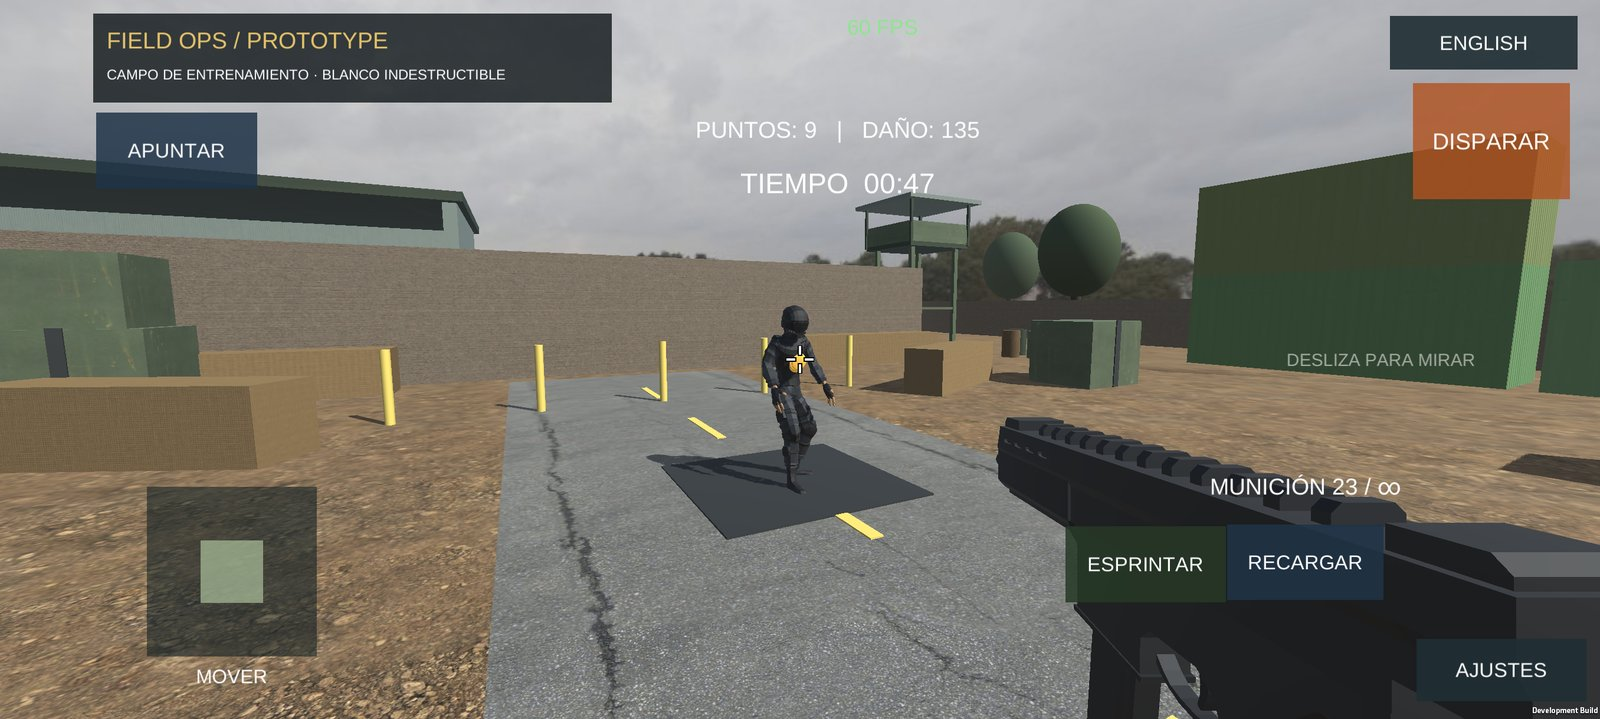
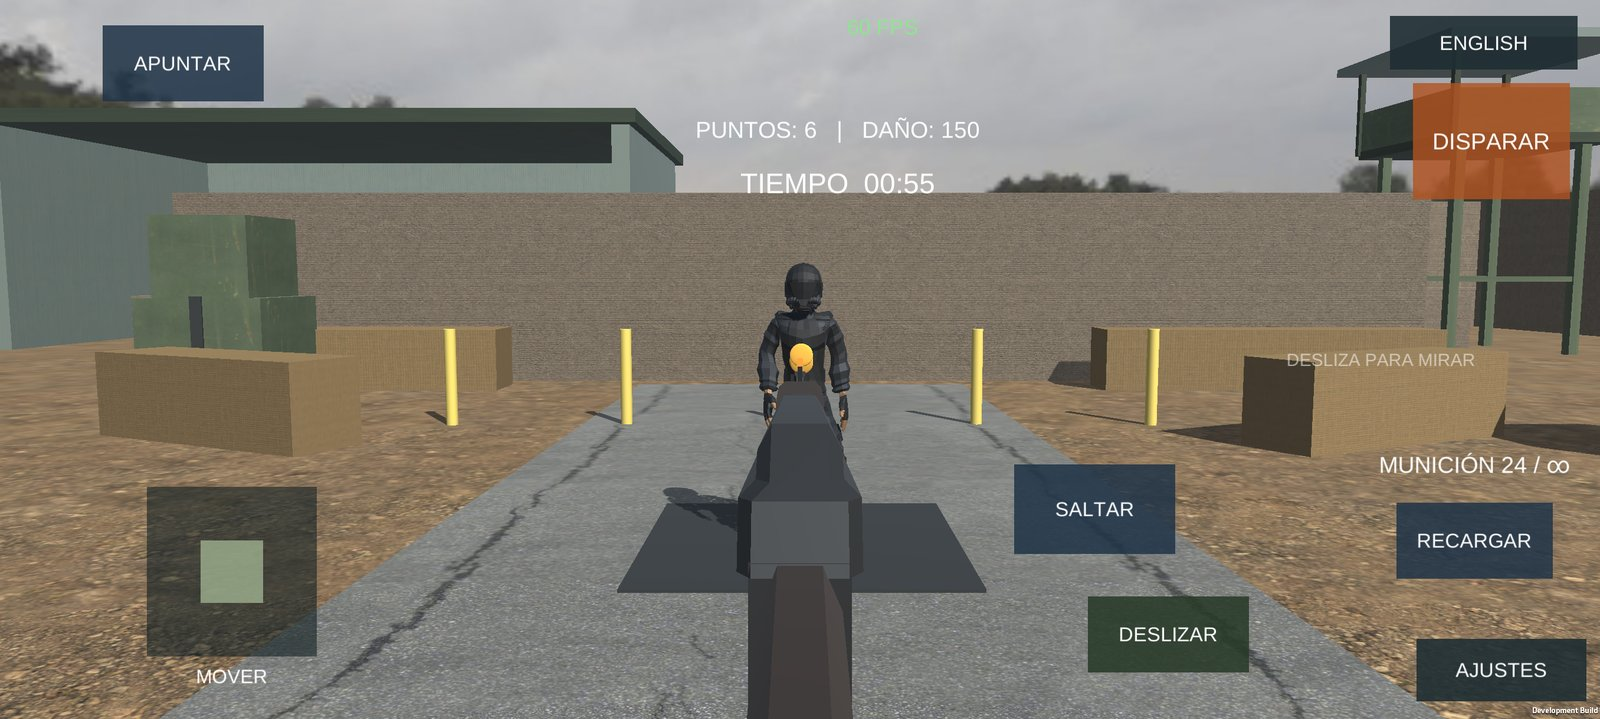
docs: refresh the README screenshot and layout table and add a current-state summary to VERIFICATION

diff --git a/VERIFICATION.md b/VERIFICATION.md
@@ -1,8 +1,43 @@
-# Timed-training verification
+# Verification
 
-The local source now provides configurable **1–300-second** training rounds, a visible countdown, one point per successful target hit, frozen final results, replay and duration changes. The new flow was built into a fresh APK, installed on a physical Motorola edge 60 fusion (Android 16) and reported working by the user (see the device section below). The original free-practice evidence is historical.
+This file is the evidence log of the project. It starts with the current state and a map of the sections, then keeps **one section per feature** in the order the features were built, each with the strict RED -> GREEN evidence, what was observed by the assistant (adb, logs, captures), what the user reported after testing on the phone, the bugs found and the known limits. Evidence is never inflated: a result is labelled as proven by tests, observed, or user-reported.
 
-## Current source checks
+## Current state
+
+| Item | Value |
+|---|---|
+| Unity | **6000.0.70f1** (no packages, editor or pipeline upgrades; only the built-in `animation` module was enabled, with approval) |
+| EditMode tests | **298 passed, 0 failed** |
+| PlayMode tests | **101 passed, 0 failed** |
+| Test method | The scene is regenerated first (`Field Ops > Create or Rebuild Training Range`), then both suites run; PlayMode needs a graphics device, EditMode runs with `-nographics` |
+| Device | Motorola edge 60 fusion, Android 16, development build installed with `adb install -r` |
[1 lines of base64/hex data omitted]
+| Performance on the phone | about 60 FPS in short sessions (see the soldier and movement sections); no thermal, battery or long-session measurement is claimed |
+
+### Map of the sections
+
+| Feature | Section |
+|---|---|
+| Timed rounds (baseline suite) | the first three sections below (historical numbers) |
+| Ammunition and reload | Ammunition and manual reload |
+| Aim down sights and settings | Aim down sights and settings |
+| Sound | Sound effects, Per-weapon audio |
+| Configurable HUD | Configurable HUD layout |
+| Five weapons | Five selectable weapons with imported models |
+| Map, sky, FPS counter | Military training-base map, sky and FPS counter |
+| Soldier target and hit zones | Soldier target, Shot and hit-zone fixes |
+| Jump, slide, hop chain, title tab, movable language and FPS | Jump, slide, sprint mode, title tab and movable language/FPS |
+| Sprint sensitivity, sprint pose, forward-only sprint | Sprint sensitivity, sprint weapon pose and forward-only sprint |
+| Iron sights, sniper scope, bolt and pump cycle | Iron sights, sniper scope view and hand-worked action |
+
+### Known limits (summary)
+
+One phone and short sessions; the movement, pose and sight values are tuned by feel and are not matched to any commercial game; no hands are modelled; the two weapon-cycle sounds were not audibly checked by the assistant; the user reported that the phone checks passed.
+
+## Timed-round baseline: source checks (historical, 2026-10-11)
+
+These first sections describe the original timed-round iteration and its numbers (39 EditMode and 9 PlayMode tests at that time). The current totals are in the table above.
+
 
 | Evidence | Result | Scope |
 |---|---|---|
@@ -24,7 +59,7 @@ All launches used Unity **6000.0.70f1**. No packages, editor version or renderin
 - Configuration/results block touch movement/look/fire/sprint and desktop mouse capture. Finger roles are cleared; a held pointer cannot leak a shot into a new round. Focus loss and app pause are separate suspension causes: both must clear before active time resumes, and background time is excluded.
 - `PrototypeBuilder` saves real menu/input/button objects and references in the editable scene. Every serialized UGUI graphic retains `UiDefault.mat`; the existing UI/Default inclusion/prebuild validator remains in effect. Runtime hides the centered reticle in menus.
 
-## What the PlayMode tests establish
+## Timed-round baseline: what its PlayMode tests establish
 
 1. The saved scene opens at configuration with default 60. Numeric-field/start/replay/configure wiring exists, and the three rendered UI states have readable layout.
 2. Queued InputSystem touchscreen events focus the real InputField and click the real start button. Text is then set **programmatically** for invalid/300-second cases; this does not prove physical keyboard typing.
@@ -41,6 +76,7 @@ Intermediate checks found two harness assumptions, not bypassed gameplay failure
 Use Unity 6000.0.70f1 and substitute PROJECT/RESULTS/LOG with local paths:
 
 ```text
+Unity.exe -batchmode -nographics -quit -projectPath PROJECT -executeMethod FieldOps.Editor.PrototypeBuilder.Generate -logFile LOG   (regenerate the scene first; EditMode tests open the saved scene)
 Unity.exe -batchmode -nographics -projectPath PROJECT -runTests -testPlatform EditMode -testResults RESULTS -logFile LOG
 Unity.exe -batchmode -projectPath PROJECT -runTests -testPlatform PlayMode -testResults RESULTS -logFile LOG
 Unity.exe -batchmode -nographics -quit -projectPath PROJECT -executeMethod FieldOps.Editor.UiBuildValidation.Validate -logFile LOG
@@ -49,7 +85,7 @@ Unity.exe -batchmode -nographics -quit -projectPath PROJECT -buildTarget Android
 
 Do not append `-quit` to test-runner commands. The runner owns completion. A hidden batch Game view needs test-only input/focus settings; physical-device behavior must be checked separately. Scene regeneration overwrites the generated scene/materials: save custom variants under another name before rebuilding it.
 
-## Physical-device acceptance for the new APK (2026-10-11)
+## Timed-round baseline: physical-device acceptance (2026-10-11)
 
[1 lines of base64/hex data omitted]
 

diff --git a/README.md b/README.md
@@ -2,10 +2,10 @@
 
 **[English](#english) · [Español](#español)**
 
-![Gameplay on the phone: soldier target with amber impact marks, score, damage, timer, ammo and FPS counter, Spanish interface / Juego en el teléfono: blanco soldado con marcas de impacto ámbar, puntaje, daño, tiempo, munición y contador de FPS, interfaz en español](docs/images/android-gameplay.jpg)
+![Aiming through the assault rifle iron sights on the phone: soldier target with amber impact marks, score, damage, timer, ammo and FPS counter, Spanish interface / Apuntando por las miras de hierro del fusil de asalto en el teléfono: blanco soldado con marcas de impacto ámbar, puntaje, daño, tiempo, munición y contador de FPS, interfaz en español](docs/images/android-gameplay.jpg)
 
-*EN: screenshot taken on the Motorola edge 60 fusion (development build, hence the "Development Build" label) during a round with the sub-machine gun: 9 points, 135 damage, an amber mark on the soldier and 60 FPS.*
-*ES: captura tomada en el Motorola edge 60 fusion (compilación de desarrollo, de ahí la etiqueta "Development Build") durante una partida con el subfusil: 9 puntos, 135 de daño, una marca ámbar en el soldado y 60 FPS.*
+*EN: screenshot taken on the Motorola edge 60 fusion (development build, hence the "Development Build" label) while aiming through the assault rifle iron sights: 6 points, 150 damage, amber marks on the soldier, 60 FPS and the player's own button layout (AIM moved to the top-left).*
+*ES: captura tomada en el Motorola edge 60 fusion (compilación de desarrollo, de ahí la etiqueta "Development Build") apuntando por las miras de hierro del fusil de asalto: 6 puntos, 150 de daño, marcas ámbar en el soldado, 60 FPS y la disposición de botones propia del jugador (APUNTAR movido arriba a la izquierda).*
 
 ---
 
@@ -97,12 +97,14 @@ On the phone, a 4-minute development-build session with the soldier averaged 59.
 | Path | Purpose |
 |---|---|
 | `Assets/FieldOps/Scenes` | Editable training scene |
-| `Assets/FieldOps/Scripts` | Movement, input, weapons, ammunition, aiming, sound, target, round rules, settings and HUD |
+| `Assets/FieldOps/Scripts` | Movement (jump, slide, sprint), input, weapons, ammunition, aiming, scope view, weapon action cycle, sound, target, round rules, settings and HUD |
 | `Assets/FieldOps/Weapons` | Generated weapon definitions (stats and model per weapon) |
 | `Assets/FieldOps/ThirdParty` | Third-party assets with their notices (see [CREDITS.md](CREDITS.md)) |
 | `Assets/FieldOps/Audio` | Processed weapon sound effects with their notice (see [CREDITS.md](CREDITS.md)) |
 | `Assets/FieldOps/Animation` | Generated animator controller for the soldier target |
-| `Assets/FieldOps/Editor` | Scene generation, Android build and UI build validation |
+| `Assets/FieldOps/Materials` | Generated materials (environment, weapon sights, UI) |
+| `Assets/FieldOps/Textures` | Generated scope mask image (original, no third-party asset) |
+| `Assets/FieldOps/Editor` | Scene generation (map, soldier, weapon iron sights), Android build and UI build validation |
 | `Assets/FieldOps/Tests` | EditMode and PlayMode tests |
 | `Packages` | Pinned manifest and dependency lockfile |
 | `ProjectSettings` | Portable Unity project configuration |
@@ -210,12 +212,14 @@ En el teléfono, una sesión de 4 minutos con la compilación de desarrollo y el
 | Ruta | Propósito |
 |---|---|
 | `Assets/FieldOps/Scenes` | Escena de entrenamiento editable |
-| `Assets/FieldOps/Scripts` | Movimiento, entrada, armas, munición, apuntado, sonido, blanco, reglas de partida, ajustes e interfaz |
+| `Assets/FieldOps/Scripts` | Movimiento (salto, deslizamiento, sprint), entrada, armas, munición, apuntado, vista de scope, ciclo de acción del arma, sonido, blanco, reglas de partida, ajustes e interfaz |
 | `Assets/FieldOps/Weapons` | Definiciones de armas generadas (estadísticas y modelo de cada una) |
 | `Assets/FieldOps/ThirdParty` | Recursos de terceros con sus avisos (ver [CREDITS.md](CREDITS.md)) |
 | `Assets/FieldOps/Audio` | Efectos de sonido de armas procesados, con su aviso (ver [CREDITS.md](CREDITS.md)) |
 | `Assets/FieldOps/Animation` | Controlador de animación generado para el blanco soldado |
-| `Assets/FieldOps/Editor` | Generación de la escena, compilación para Android y validación de la interfaz |
+| `Assets/FieldOps/Materials` | Materiales generados (entorno, miras de las armas, interfaz) |
+| `Assets/FieldOps/Textures` | Imagen de la máscara del scope, generada (original, sin recursos de terceros) |
+| `Assets/FieldOps/Editor` | Generación de la escena (mapa, soldado, miras de hierro de las armas), compilación para Android y validación de la interfaz |
 | `Assets/FieldOps/Tests` | Pruebas EditMode y PlayMode |
 | `Packages` | Manifiesto fijado y archivo de bloqueo de dependencias |
 | `ProjectSettings` | Configuración portátil del proyecto de Unity |
